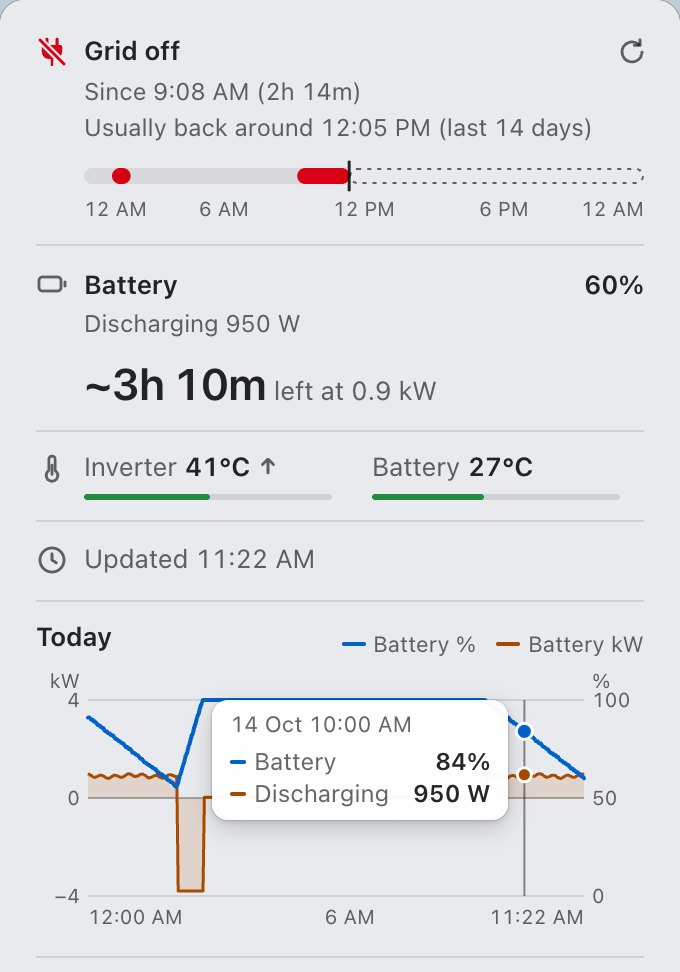
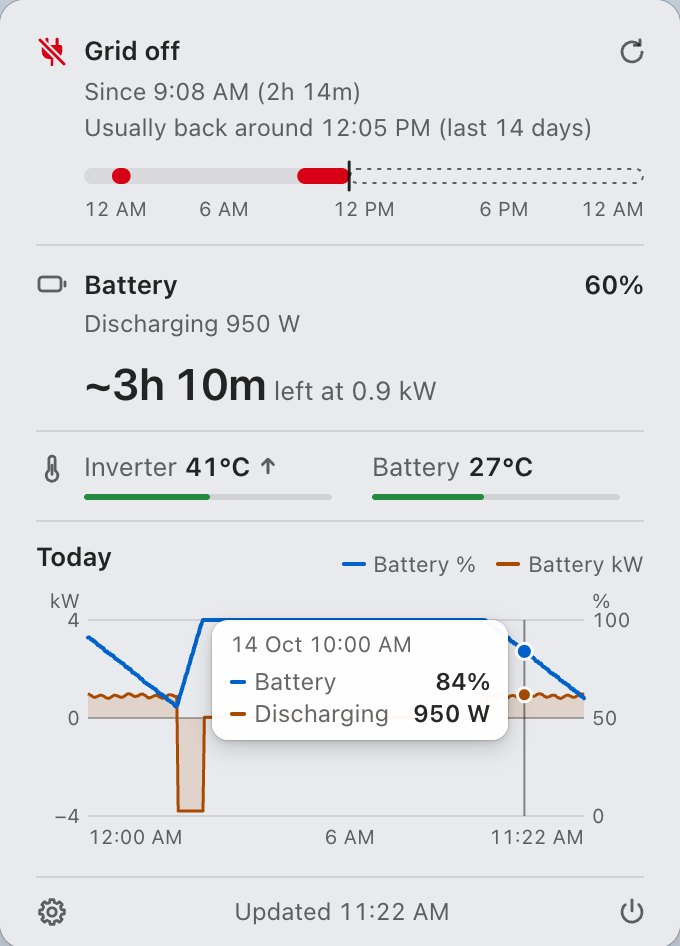
Put Settings, Quit and the update time in one footer row
The panel's footer is now a single row: a gear button for Settings (⌘,)
on the left, the "Updated …" time in the middle and a power button for
Quit (⌘Q) on the right. The separate Updated section is gone, so the
panel is shorter. README and CHANGELOG updated.

diff --git a/ui/panel.js b/ui/panel.js
@@ -17,7 +17,7 @@
                //   (the Settings switch is off, or neither reading is real).
                // Temp = { text: '36°C' (whole degrees, U+2212 minus), level: 0..1 (place on its scale),
                //          state: 'ok' | 'warm' | 'hot' | 'cold', trend?: 'up' | 'down' (±2 °C over 30 min of own readings) }
-     updated:  null | { stale: bool, text: 'Updated 8:20 AM' | 'No new data since 8:20 AM' },  // T-002: Rust appends ' · refreshing…' while refreshing
+     updated:  null | { stale: bool, text: 'Updated 8:20 AM' | 'No new data since 8:20 AM' },  // T-024: shown in the footer; while refreshing it reads Refreshing…
      notificationsOff: bool,
      chart:    null | { status: 'ok'|'loading'|'empty'|'failed'|'fallback', since?: '7:58 AM' (fallback, only when the app started today),
                         day: '18 Oct' (T-002, station-local date for the hover read-out),
@@ -46,7 +46,6 @@
     plug: () => `<svg viewBox="0 0 18 18" fill="currentColor">${PLUG}</svg>`,
     plugoff: () => { const id = 'gwk' + (++uid); return `<svg viewBox="0 0 18 18" fill="currentColor"><defs><mask id="${id}" maskUnits="userSpaceOnUse" x="0" y="0" width="18" height="18"><rect width="18" height="18" fill="#fff"/><path d="M2.25 2.25L15.75 15.75" stroke="#000" stroke-width="4.1" stroke-linecap="round"/></mask></defs><g mask="url(#${id})">${PLUG}</g><path d="M2.25 2.25L15.75 15.75" stroke="currentColor" stroke-width="1.6" stroke-linecap="round"/></svg>`; },
     battery: () => `<svg viewBox="0 0 16 16" ${S}><rect x="1.5" y="4.5" width="11" height="7" rx="1.8"/><path d="M14.5 7v2"/></svg>`,
-    clock: () => `<svg viewBox="0 0 16 16" ${S}><circle cx="8" cy="8" r="6"/><path d="M8 4.8V8l2.2 1.4"/></svg>`,
     warn: () => `<svg viewBox="0 0 16 16" ${S}><path d="M8 2.2l6.2 11H1.8z"/><path d="M8 6.6v3"/><path d="M8 11.5v.1"/></svg>`,
     bellslash: () => `<svg viewBox="0 0 16 16" ${S}><path d="M4 11.2V7.6a4 4 0 0 1 6.9-2.8M12 7.6v3.6l1 1.3H5"/><path d="M6.6 14h2.8"/><path d="M2.5 2.5l11 11"/></svg>`,
     bell: () => `<svg viewBox="0 0 16 16" ${S}><path d="M4 11.2V7.6a4 4 0 0 1 8 0v3.6l1 1.3H3z"/><path d="M6.6 14h2.8"/></svg>`,
@@ -257,9 +256,6 @@
     if (t && (t.inverter || t.battery)) out.push(`<section class="gw-sec gw-temps" aria-label="Temperatures"><div class="gw-row">${ic('thermo')}`
       + pair('Inverter', t.inverter) + pair('Battery', t.battery) + `</div></section>`);
 
-    const u = st.updated;
-    if (u) out.push(`<section class="gw-sec gw-note${u.stale ? ' is-stale' : ''}"><div class="gw-row">${u.stale ? ic('warn', 'is-strong') : ic('clock')}<span class="gw-title"${u.stale ? '' : ' style="color:var(--gw-label-2)"'}>${esc(u.text)}</span></div></section>`);
-
     if (st.notificationsOff) out.push(`<section class="gw-sec"><div class="gw-row">${ic('bellslash', 'is-strong')}<span class="gw-title">Notifications are off</span></div><p class="gw-sub">You won’t hear when the grid goes off.</p></section>`);
 
     const c = st.chart;
@@ -271,13 +267,18 @@
         + chartSVG(c) + (cap ? `<p class="gw-caption">${cap}</p>` : '') + `</section>`);
     }
 
+    // T-024: action rows only for what the panel needs right now (Turn On Notifications…, Sign In…); Settings and Quit
+    // are icon buttons on one footer row with the last update between them (the old "Updated" section).
     const acts = [];
-    if (st.notificationsOff) acts.push(['notif', 'bell', 'Turn On Notifications…', '']);
-    // The account, Sign Out and the log folder live in Settings. The footer keeps Settings… and Quit, plus Sign In…
-    // only while signed out (the panel is empty without it, so the way in stays one click away).
-    if (!st.signedIn) acts.push(['signin', 'person', 'Sign In…', '']);
-    acts.push(['settings', 'gear', 'Settings…', '⌘,'], ['quit', 'power', 'Quit', '⌘Q']);
-    out.push(`<nav class="gw-actions" aria-label="Actions">${acts.map(([id, icon, t, k, dis]) => `<button class="gw-act" data-action="${id}"${dis ? ' aria-disabled="true" tabindex="-1"' : ''}>${ic(icon)}<span>${t}</span>${k ? `<span class="k">${k}</span>` : ''}</button>`).join('')}</nav>`);
+    if (st.notificationsOff) acts.push(['notif', 'bell', 'Turn On Notifications…']);
+    if (!st.signedIn) acts.push(['signin', 'person', 'Sign In…']);
+    if (acts.length) out.push(`<nav class="gw-actions" aria-label="Actions">${acts.map(([id, icon, t]) => `<button class="gw-act" data-action="${id}">${ic(icon)}<span>${t}</span></button>`).join('')}</nav>`);
+    const u = st.updated;
+    const foot = (id, icon, label, tip, keys) => `<button class="gw-icon-btn" data-action="${id}" aria-label="${label}" aria-keyshortcuts="${keys}" title="${tip}">${ic(icon)}</button>`;
+    // Empty while signed out and before the first reading: the first row already says so.
+    const when = u && st.refreshing ? '<p class="gw-when"><span>Refreshing…</span></p>'
+      : u ? `<p class="gw-when${u.stale ? ' is-stale' : ''}">${u.stale ? ic('warn') : ''}<span>${esc(u.text)}</span></p>` : '<p class="gw-when"></p>';
+    out.push(`<footer class="gw-foot">${foot('settings', 'gear', 'Settings', 'Settings (⌘,)', 'Meta+,')}${when}${foot('quit', 'power', 'Quit GoodWe Status', 'Quit GoodWe Status (⌘Q)', 'Meta+Q')}</footer>`);
 
     return `<div class="gw-panel" role="dialog" aria-label="GoodWe Status">${out.join('')}</div>`;
   }

diff --git a/ui/panel.css b/ui/panel.css
@@ -51,8 +51,6 @@
 .gw-sub{font-size:12px;color:var(--gw-label-2);margin-top:2px !important;padding-left:24px}
 .gw-hero{margin-top:var(--gw-s2) !important;padding-left:24px;font-size:13px;color:var(--gw-label-2)}
 .gw-hero b{font-size:22px;line-height:26px;font-weight:600;color:var(--gw-label);letter-spacing:-.2px;margin-right:4px}
-.gw-note .gw-title{font-weight:400}
-.gw-note.is-stale .gw-title{font-weight:600}
 
 /* Chart */
 .gw-chart-head{display:flex;align-items:baseline;justify-content:space-between;gap:var(--gw-s2);margin-bottom:var(--gw-s1)}
@@ -89,7 +87,9 @@
 .gw-icon-btn{all:unset;flex:none;display:grid;place-items:center;width:24px;height:24px;margin:-2px -6px -2px 0;border-radius:var(--gw-row-radius);
   color:var(--gw-label-2);transition:background-color var(--gw-press) ease-out,scale var(--gw-press) ease-out}
 .gw-icon-btn .gw-ic{color:inherit}
-@media (hover:hover){ .gw-icon-btn:not([aria-disabled="true"]):hover{background:var(--gw-fill-hover);color:var(--gw-label)} }
+/* T-024: no hover until the pointer really moves (#root.gw-still, T-013): a click on Settings or Quit hides the panel
+   with the pointer on the button. :not(:active) lets the press fill win over this rule's higher specificity (T-023). */
+@media (hover:hover){ #root:not(.gw-still) .gw-icon-btn:not([aria-disabled="true"]):hover:not(:active){background:var(--gw-fill-hover);color:var(--gw-label)} }
 .gw-icon-btn:not([aria-disabled="true"]):active{background:var(--gw-fill-press);color:var(--gw-label)}
 @media (prefers-reduced-motion:no-preference){ .gw-icon-btn:not([aria-disabled="true"]):active{scale:.96} }
 .gw-icon-btn:focus-visible{outline:2px solid var(--gw-focus);outline-offset:0}
@@ -173,3 +173,18 @@
 .gw-strip .gw-tip{top:16px;max-width:220px} /* under the bar, over the hour labels */
 .gw-tip-row i.off{background:var(--gw-red)}
 @media (forced-colors:active){ .gw-strip .cut{fill:Highlight} .gw-strip-plot:focus-visible{outline-color:Highlight} }
+
+/* ---- T-024 · Footer: Settings · last update · Quit on one 24 pt row ----
+   The two buttons are the Refresh button (.gw-icon-btn: 24 pt target, 16 pt glyph, hover / press / focus / motion).
+   Left 8 = 12 − 4, so the gear's glyph sits on the icon column; right 6 = 12 − 6, so the power glyph sits under Refresh's.
+   The text is centred between them (1 pt left of the panel's centre, by the 2 pt asymmetry). */
+.gw-foot{position:relative;display:grid;grid-template-columns:24px minmax(0,1fr) 24px;align-items:center;column-gap:var(--gw-s2);
+  margin-top:2px;padding:6px 6px 0 8px}
+.gw-foot::before{content:"";position:absolute;top:0;left:var(--gw-s3);right:var(--gw-s3);height:1px;background:var(--gw-separator)}
+.gw-actions + .gw-foot{margin-top:6px} /* under action rows too: its own hairline, so the icons never read as a third row */
+.gw-foot .gw-icon-btn{margin:0}
+.gw-when{display:flex;align-items:center;justify-content:center;gap:var(--gw-s1);min-width:0;
+  font-size:12px;line-height:16px;color:var(--gw-label-2);white-space:nowrap}
+.gw-when span{overflow:hidden;text-overflow:ellipsis}
+.gw-when .gw-ic{width:14px;height:14px;color:var(--gw-label)}
+.gw-when.is-stale{color:var(--gw-label);font-weight:600}

diff --git a/ui/settings.js b/ui/settings.js
@@ -7,7 +7,7 @@
   const DC = ['Central Europe', 'Western Europe', 'Western America', 'Eastern America', 'China', 'India'];
   const S = 'fill="none" stroke="currentColor" stroke-width="1.4" stroke-linecap="round" stroke-linejoin="round"';
   const MINUS = `<svg viewBox="0 0 14 14" ${S}><circle cx="7" cy="7" r="5.8"/><path d="M4.4 7h5.2"/></svg>`;
-  // Toolbar glyphs, 22 pt, same stroke family as the panel's icons (gear = the panel's Settings… icon).
+  // Toolbar glyphs, 22 pt, same stroke family as the panel's icons (gear = the panel's Settings icon).
   const GEAR = '<svg viewBox="0 0 16 16" fill="none" stroke="currentColor" stroke-width="1.1" stroke-linejoin="round"><path d="M14.22 7.00L14.22 9.00L12.77 9.13L12.17 10.57L13.11 11.69L11.69 13.11L10.57 12.17L9.13 12.77L9.00 14.22L7.00 14.22L6.87 12.77L5.43 12.17L4.31 13.11L2.89 11.69L3.83 10.57L3.23 9.13L1.78 9.00L1.78 7.00L3.23 6.87L3.83 5.43L2.89 4.31L4.31 2.89L5.43 3.83L6.87 3.23L7.00 1.78L9.00 1.78L9.13 3.23L10.57 3.83L11.69 2.89L13.11 4.31L12.17 5.43L12.77 6.87Z"/><circle cx="8" cy="8" r="2.1"/></svg>';
   const BOLT = '<svg viewBox="0 0 16 16" fill="none" stroke="currentColor" stroke-width="1.1" stroke-linecap="round" stroke-linejoin="round"><path d="M9.2 1.6L3.6 9.1h4.1l-1 5.3 5.7-7.6H8.3z"/></svg>';
   // T-015: bars, the same 16 grid and 1.1 stroke (SF Symbols' chart.bar).

diff --git a/ui/app.js b/ui/app.js
@@ -46,7 +46,7 @@
   // focus restore above, which serves re-renders while it is open.
   window.addEventListener('focus', () => {
     if (document.activeElement) document.activeElement.blur();
-    // A hidden window gets no mouse-exit: the row last clicked (Settings…) would keep :hover.
+    // A hidden window gets no mouse-exit: the button last clicked (Settings) would keep :hover.
     // Rows light on hover again after the pointer really moves in the panel (T-013 item 6).
     root.classList.add('gw-still');
   });
@@ -57,7 +57,8 @@
     [px, py] = [e.clientX, e.clientY];
   });
 
-  const enabled = () => [...root.querySelectorAll('.gw-act:not([aria-disabled="true"])')];
+  // T-024: ↑ / ↓ walk the action rows, then the footer's Settings and Quit.
+  const enabled = () => [...root.querySelectorAll('.gw-act:not([aria-disabled="true"]), .gw-foot .gw-icon-btn')];
   const run = id => {
     if (id === 'refresh' && !(state && state.signedIn && !state.refreshing)) return; // disabled signed out; one poll at a time
     invoke('panel_action', { id });

diff --git a/src-tauri/src/view.rs b/src-tauri/src/view.rs
@@ -189,12 +189,8 @@ pub fn panel(m: &Monitor, now: Instant, notifications_off: bool) -> PanelState {
     let refreshing = m.user_poll && m.signed_in;
     let updated = shown.map(|r| Updated {
         stale,
-        text: format!(
-            "{} {}{}",
-            if stale { "No new data since" } else { "Updated" },
-            r.time.hhmm12(),
-            if refreshing { " · refreshing…" } else { "" }
-        ),
+        // T-024: no " · refreshing…" suffix; the footer shows Refreshing… from `refreshing` instead.
+        text: format!("{} {}", if stale { "No new data since" } else { "Updated" }, r.time.hhmm12()),
     });
     PanelState {
         status: status(m, now),
@@ -808,14 +804,14 @@ mod tests {
     }
 
     #[test]
-    fn refreshing_marks_freshness_line() {
+    fn refreshing_keeps_freshness_text() {
         let (mut m, now) = live(&[("2026-10-18 11:22", ON)]);
         assert_eq!(m.ask_refresh(), Some(true));
         let p = panel(&m, now, false);
         assert!(p.refreshing);
-        assert_eq!(p.updated.unwrap().text, "Updated 11:22\u{a0}AM · refreshing…");
+        assert_eq!(p.updated.unwrap().text, "Updated 11:22\u{a0}AM");
         let p = panel(&m, now + 15 * MIN, false);
-        assert_eq!(p.updated.unwrap().text, "No new data since 11:22\u{a0}AM · refreshing…");
+        assert_eq!(p.updated.unwrap().text, "No new data since 11:22\u{a0}AM");
         m.user_poll = false;
         let p = panel(&m, now, false);
         assert!(!p.refreshing);

diff --git a/README.md b/README.md
@@ -8,26 +8,26 @@ A macOS menu bar app that shows your home battery level and whether the grid is 
 
 - **Grid off since** comes from the inverter's minute history, so it is right after a restart too.
 - **Usually back around 12:05 PM (last 14 days)** while the grid is off, and **Next cut usually around 1:35 PM · back around 4:30 PM** while it is on. Both are estimates from the last 14 days, shown only when 3 of those days agree; never a promise. If that time passes and the grid is still off, the line stays until the grid comes back.
-- **Today's power cuts:** a 24-hour strip under Grid shows today's cuts in red (point at one, or Tab, then ← →, to read it). Click the strip (or Tab to it and press Return) to open **Stats** on today. Hide it in **Settings… › General › Show today's power cuts**.
-- **Low battery alert:** while the grid is off, one alert with sound when the battery reaches 20% and one more at 10%. Change the level in **Settings… › General › Low battery alert** (the second alert is always at half of it).
-- **Temperatures:** the inverter's and the battery's, each with a bar on its scale. **Warm**, **Hot** or **Cold** shows next to a reading that isn't fine (inverter warm from 60 °C, hot from 70 °C; battery warm from 40 °C, hot from 50 °C, cold at 0 °C or below), and an arrow when it moved 2 °C or more in 30 minutes. Hide them in **Settings… › General › Show temperatures**.
+- **Today's power cuts:** a 24-hour strip under Grid shows today's cuts in red (point at one, or Tab, then ← →, to read it). Click the strip (or Tab to it and press Return) to open **Stats** on today. Hide it in **Settings › General › Show today's power cuts**.
+- **Low battery alert:** while the grid is off, one alert with sound when the battery reaches 20% and one more at 10%. Change the level in **Settings › General › Low battery alert** (the second alert is always at half of it).
+- **Temperatures:** the inverter's and the battery's, each with a bar on its scale. **Warm**, **Hot** or **Cold** shows next to a reading that isn't fine (inverter warm from 60 °C, hot from 70 °C; battery warm from 40 °C, hot from 50 °C, cold at 0 °C or below), and an arrow when it moved 2 °C or more in 30 minutes. Hide them in **Settings › General › Show temperatures**.
 - **Chart:** point at it (or Tab, then ← →) to read the time, battery % and kW at that minute.
 - **Refresh:** the ↻ button at the top right, or ⌘R. The panel stays open while it refreshes.
-- **Settings…** (⌘,, at the bottom of the panel) holds Open at login, Show temperatures, Show today's power cuts, the low battery alert, the log folder, your account (Sign Out removes the saved login from your Keychain), the device automation below and Stats. Signed out, the panel also shows **Sign In…**.
-- **Stats:** **Settings… › Stats** lists one day's power cuts: when the grid went off, when it came back and for how long, with a strip of the day above. ← / → (or ‹ ›) step a day, ⌘T goes to today, and the date button opens a calendar (a dot marks days with a cut).
+- **Settings** (the gear at the bottom left of the panel, ⌘,) holds Open at login, Show temperatures, Show today's power cuts, the low battery alert, the log folder, your account (Sign Out removes the saved login from your Keychain), the device automation below and Stats. Signed out, the panel also shows **Sign In…**. The power button at the bottom right quits (⌘Q), and between the two the panel says when it last got data (**Updated 9:45 AM**, or **No new data since …** when the readings stopped).
+- **Stats:** **Settings › Stats** lists one day's power cuts: when the grid went off, when it came back and for how long, with a strip of the day above. ← / → (or ‹ ›) step a day, ⌘T goes to today, and the date button opens a calendar (a dot marks days with a cut).
 - **Device automation:** Tuya / Smart Life devices can change by themselves when the grid goes off or comes back, each after its own delay. See [Device automation (Tuya)](#device-automation-tuya).
 
 ## Install
 
 1. Download `GoodWe-Status-<version>-macos-arm64.zip` from the [latest release](https://github.com/asifshirazi/goodwe-status/releases/latest) (Apple silicon Macs), unzip it and move **GoodWe Status.app** to Applications. What changed in each version is in [CHANGELOG.md](CHANGELOG.md).
 2. The app is not notarized, so the first time **right-click it, choose Open**, then **Open** again. (macOS 15+: try once, then **System Settings › Privacy & Security › Open Anyway**. Or: `xattr -dr com.apple.quarantine "/Applications/GoodWe Status.app"`.)
-3. Sign in with your SEMS Portal email and password. They are kept only in your Keychain. To change account: **Settings… › General › Sign Out**, then **Sign In…**.
+3. Sign in with your SEMS Portal email and password. They are kept only in your Keychain. To change account: **Settings › General › Sign Out**, then **Sign In…**.
 
 - **Keychain:** after each update macOS asks once for each saved item (your SEMS login and, if connected, the Tuya keys). Click **Always Allow**.
 - **Focus can mute alerts:** to hear a power cut during Focus, add GoodWe Status under **System Settings › Focus › (your Focus) › Allowed Apps**.
 - **The history lines need a station without solar panels.** "Since", "Usually back around" and "Next cut" read outages from the minute history (grid at 0, battery carrying the house). With solar, self-consumption looks the same, so those lines would be wrong (the off-minute rule in `sems.rs` would also need the solar power at 0). The live grid state and alerts work with solar.
 - **Requests:** the history costs one request per past day, once: every finished day is kept in the app's data folder (`history.json`, removed on Sign Out), so a restart doesn't fetch it again. After the first sign-in the app loads every day back to the station's set-up in the background, one request at a time with a pause between them (Stats shows the progress); it never delays the grid alerts. After that the same two requests per 2-minute poll as before (today's history comes with the chart). A slow day gets 60 s and one retry; a day that still fails is tried again later.
-- **Start at login** is on after first sign-in. To turn it off: **Settings… › General › Open at login**.
+- **Start at login** is on after first sign-in. To turn it off: **Settings › General › Open at login**.
 
 <img src="docs/screenshots/settings-stats-light.jpg" alt="Settings, Stats pane" width="500">
 
@@ -41,7 +41,7 @@ Set each Tuya device's **Grid off** and **Grid on** choice (a light's mode or po
 2. In the project, **Service API**: make sure **IoT Core** and **Authorization Token Management** are subscribed.
 3. **Devices › Link App Account › Add App Account**, then scan the QR code in the Smart Life app (**Me**, scan icon) with **Read and write** permission. Your devices appear in the project.
 4. **Overview**: copy the **Access ID** and **Access Secret**.
-5. In GoodWe Status: **Settings… › Automation**, paste them, pick the data center, **Connect**. Then **Add Device…** and set each device's choices and delay. Turn a device's switch off to leave it alone. A change you make (a device turned on or added, or the choice for the grid's state now) is sent at once.
+5. In GoodWe Status: **Settings › Automation**, paste them, pick the data center, **Connect**. Then **Add Device…** and set each device's choices and delay. Turn a device's switch off to leave it alone. A change you make (a device turned on or added, or the choice for the grid's state now) is sent at once.
 6. The free IoT Core plan lasts about 6 months: renew it under **Cloud › My Services › Extend trial period** (free so far, per users; usually approved within a working day). While it is expired, Settings says so and devices don't change. Trial limits: 26 000 calls a month and 10 devices, far more than this needs (a call per device per grid change).
 
 The keys stay in your Keychain; the device list stays in the app's settings file, never in the repo or the log. Failures show only in Settings, never in the panel or the alert.
@@ -91,7 +91,7 @@ ditto -c -k --keepParent "src-tauri/target/release/bundle/macos/GoodWe Status.ap
 
 ## When GoodWe changes their API
 
-1. When a reply can't be read, the menu bar item greys out and the reason plus the reply (personal fields removed) go to the log. Click the menu bar item, then **Settings… › General › Open Log Folder**.
+1. When a reply can't be read, the menu bar item greys out and the reason plus the reply (personal fields removed) go to the log. Click the menu bar item, then **Settings › General › Open Log Folder**.
 2. Every URL, header, field path and the grid-off minute rule lives in `src-tauri/src/sems.rs`; the outage, "since", "back around" and "next cut" rules live in `src-tauri/src/outages.rs`. Fix the mapping there.
 3. Save the new reply in `src-tauri/tests/fixtures/` with all personal data removed (email, tokens, station id, serial numbers, address), and add its expected result to the tests in `sems.rs` (`sems-plus-grid-history.json` is the history sample: its expected off minutes are there too).
 4. Run `cargo test --manifest-path src-tauri/Cargo.toml` until it passes, then open an issue or pull request with the redacted sample.

diff --git a/CHANGELOG.md b/CHANGELOG.md
@@ -5,6 +5,7 @@ All notable changes to GoodWe Status are listed here, newest first. The format f
 ## [Unreleased]
 
 ### Changed
+- The bottom of the panel is one row: a gear for Settings (⌘,) on the left, the last update time in the middle, and a power button to quit (⌘Q) on the right. The separate "Updated" line is gone, and while a refresh runs the middle says "Refreshing…". The panel is shorter as a result.
 - The panel's power-cut strip is now the way into Stats: click it (or Tab to it and press Return or Space) to open Settings › Stats on today. The ⓘ after "Usually back around" is gone.
 - "Usually back around …" stays once its time has passed while the grid is still off, so you can see the grid is later than usual; it goes when the grid comes back. Before, it disappeared or jumped to a later time.
 - Settings › Automation also says what turning a device on does while the grid is on ("The grid is on now: turning a device on sets its Grid on choice."), not only while it is off.
